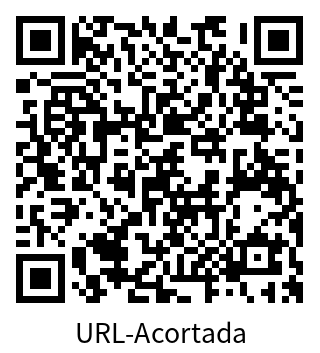
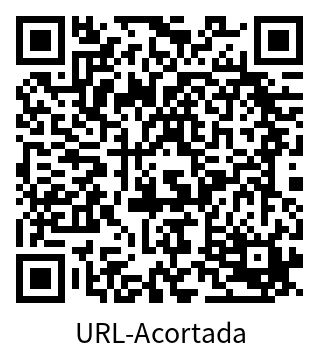
'Update Contenido del QR'

Changed region(s): [[0.0312, 0.0312, 0.9688, 0.8725]]

diff --git a/generate.php b/generate.php
@@ -7,18 +7,18 @@ use Endroid\QrCode\Label\LabelAlignment;
 use Endroid\QrCode\Label\Font\NotoSans;
 use Endroid\QrCode\Writer\PngWriter;
 
-function SavePng()
+function SavePng($x)
 {
-    $short_url = $_POST["short_url"];
+    $newURL = "http://localhost/url.php?short_url=$x";
     $result = Builder::create()
         ->writer(new PngWriter())
         ->writerOptions([])
-        ->data($short_url)
+        ->data($newURL)
         ->errorCorrectionLevel(ErrorCorrectionLevel::High)
         ->size(300)
         ->margin(10)
         ->labelText('URL-Acortada')
-        ->labelFont(new NotoSans(20))
+        ->labelFont(new NotoSans(16))
         ->labelAlignment(LabelAlignment::Center)
         ->validateResult(false)
         ->build();
@@ -36,7 +36,7 @@ function GenerarURL()
         $urls[$random] = $_POST['short_url'];
     }
     file_put_contents('urls.json', json_encode($urls));
-    echo "<p>la nueva url es: <a href='/url.php?short_url=$random' target='_blank'>localhost/url.php?short_url=$random<a></p>";
+    return $random;
 }
 
 if ($_SERVER["REQUEST_METHOD"] === "POST") {
@@ -45,9 +45,10 @@ if ($_SERVER["REQUEST_METHOD"] === "POST") {
         $url = filter_var($url, FILTER_SANITIZE_URL);
         // Validate url
         if (filter_var($url, FILTER_VALIDATE_URL) !== false) {
-            GenerarURL();
-            SavePng();
-            echo("<img src='qrcode.png' alt='QR-Generado'>");
+            $random = GenerarURL();
+            SavePng($random);
+            echo("<p>la nueva url es: <a href='/url.php?short_url=$random' target='_blank'>localhost/url.php?short_url=$random<a></p>
+<img src='qrcode.png' alt='QR-Generado'>");
         } else {
             echo("<h1>Esta URL no es valida</h1>");
         }
